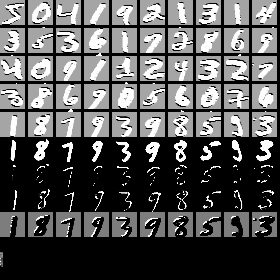
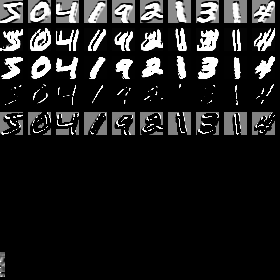
fixed some bugs for cnn

diff --git a/example/mnist_cnn_train.c b/example/mnist_cnn_train.c
@@ -17,12 +17,16 @@ int main()
 	int label = 10;	// 出力層ユニット(0-9)
 	int sample = 60000;
 
+	int k = 5;		// カーネルサイズ
+	int s = 28-k;		// 出力サイズ
+
 	int u[] = {
 		0, 0, 1, size,    0, 0, 0, 0,
 
 //		1, 2, 1, 25*25, 28, 28, 3, 1,
 //		1, 2, 5, 5*25*25, 28, 28, 3, 1,		// sigmoid, 5ch
-		1, 3, 5, 5*25*25, 28, 28, 3, 1,		// tanh, 5ch
+//		1, 3, 5, 5*25*25, 28, 28, 3, 1,		// tanh, 5ch, 3x3
+		1, 3, 5, 5*s*s, 28, 28, k, 1,		// tanh, 5ch
 //		1, 5, 5, 5*25*25, 28, 28, 3, 1,		// ReLU, 5ch
 
 //		0, 2, 1, hidden,  0, 0, 0, 0,
@@ -73,13 +77,20 @@ int main()
 	printf("Prediction accuracy on training data = %f%%\n", (float)r/sample*100.0);
 
 	unsigned char *pixels = calloc(1, size*100);
-	for (int i=0; i<50; i++) {
-		double mse = 0;
+	for (int i=0; i<10; i++) {
+		CatsEye_forward(&cat, x+size*i);
+		CatsEye_visualize(cat.o[1], s*s, s, &pixels[i*28], 28*10);
+		CatsEye_visualize(&cat.o[1][s*s], s*s, s, &pixels[28*28*10+i*28], 28*10);
+		CatsEye_visualize(&cat.o[1][s*s*2], s*s, s, &pixels[28*28*10*2+i*28], 28*10);
+		CatsEye_visualize(&cat.o[1][s*s*3], s*s, s, &pixels[28*28*10*3+i*28], 28*10);
+		CatsEye_visualize(&cat.o[1][s*s*4], s*s, s, &pixels[28*28*10*4+i*28], 28*10);
+	}
+/*	for (int i=0; i<50; i++) {
 		CatsEye_forward(&cat, x+size*i);
 //		CatsEye_visualize(cat.o[1], cat.u[LPLEN*1+SIZE], 28, &pixels[(i/10)*28*28*10 + (i%10)*28], 28*10);
-		CatsEye_visualize(cat.o[1], cat.u[LPLEN*1+SIZE], 25, &pixels[(i/10)*28*28*10 + (i%10)*28], 28*10);
-	}
-	CatsEye_visualize(cat.w[0], 5*3*3, 3, &pixels[28*10*28*9], 28*10);
+		CatsEye_visualize(cat.o[1], 25*25, 25, &pixels[(i/10)*28*28*10 + (i%10)*28], 28*10);
+	}*/
+	CatsEye_visualize(cat.w[0], 5*k*k, k, &pixels[28*10*28*9], 28*10);
 	stbi_write_png("mnist_cnn_train.png", 28*10, 28*10, 1, pixels, 28*10);
 	free(pixels);
 

diff --git a/README.md b/README.md
@@ -67,7 +67,7 @@ for more information, see example/
   ![epoch=100](example/mnist_autoencoder_weights_u64da_s100.png "epoch=100")
 
 - Convolutional Neural Networks
-  ![Convolutional](example/mnist_cnn_train.png "Convolutional")
+  - ![96.4%](example/mnist_cnn_train.png "Convolutional")
 
 ## Refrence
 - Documents
